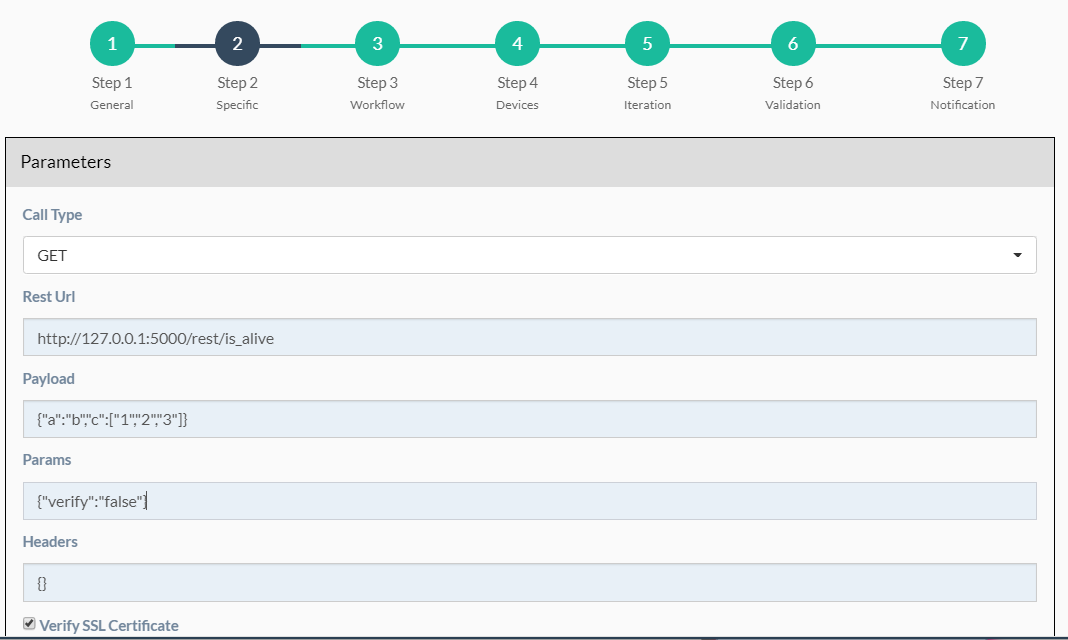
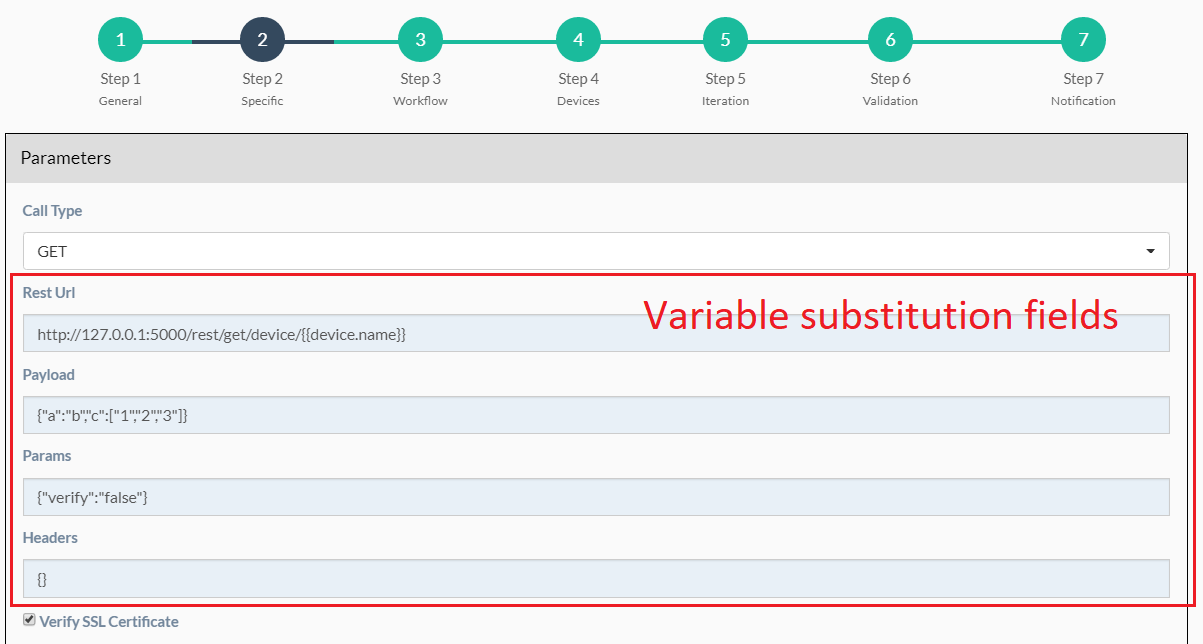
update service docs rest call global variable

Changed region(s): [[0.0, 0.375, 1.0, 1.0], [0.0, 0.0312, 0.9888, 0.3438]]

diff --git a/docs/automation/services.rst b/docs/automation/services.rst
@@ -141,43 +141,49 @@ Depending on the context, a number of global variables is made available by eNMS
 Global variables
 ****************
 
-- ``device`` (Available when the service is running on a device) Current device.
-- ``config`` (Always available) Configuration. This is a python dictionary available in
-  :guilabel:`Admin / Administration`, button ``Configuration``. By default, it is set to the content
-  of ``config.json``.
+- ``device``
+
+  - **Meaning**: this is the device on which the service is running.
+  - **Type** Database Object.
+  - **Available**: when the service is running on a device.
+
+- ``config``
+
+  - **Meaning**: eNMS configuration, editable from :guilabel:`Admin / Administration`, button
+    ``Configuration``. It is initially set to the content of ``config.json``.
+  - **Type** Dictionary.
+  - **Available**: Always.
+
 - ``workflow`` (Available when the service runs inside a workflow) Current workflow.
 - ``parent_device`` (Available when the iteration mechanism is used) Parent device, from which the actual
   targets of the service are computed.
+- ``result`` (Available after a service has run) Result of the service
 
-Variable Substitution
-*********************
+Substitution fields
+*******************
 
-There are some fields 
-For some services, it is useful for a string to include variables such as a timestamp or device parameters.
-For example, if you run a REST call script on several devices to send a request at a given URL, you might
-want the URL to depend on the name of the device.
-Any code between double curved brackets will be evaluated at runtime and replaced with the appropriate value.
-
-For example, you can POST a request on several devices at ``/url/{{device.name}}``, and ``{{device.name}}``
-will be replaced on each execution iteration by the name of each device.
-
-Let's consider the following REST call service:
+Substitution fields, marked in the interface with a light blue background, lets you include python code
+inside double curved brackets (``{{your python code}}``).
+For example, the URL of a REST call service is a substitution field. If the service is running on device
+targets, you can use the global variable ``device`` in the URL.
+When the service is running, eNMS will evaluate the python code in brackets and replace it with its value.
 
 .. image:: /_static/automation/services/variable_substitution.png
    :alt: Variable substitution
    :align: center
 
-When this service is executed, the following GET requests will be sent in parallel:
+Running the service on two devices ``D1`` and ``D2`` will result in sending the following GET requests:
 
 ```
-INFO:werkzeug:127.0.0.1 - - [13/Oct/2018 14:07:49] "GET /rest/object/device/router18 HTTP/1.1" 200 -
-INFO:werkzeug:127.0.0.1 - - [13/Oct/2018 14:07:49] "GET /rest/object/device/router14 HTTP/1.1" 200 -
-INFO:werkzeug:127.0.0.1 - - [13/Oct/2018 14:07:49] "GET /rest/object/device/router8 HTTP/1.1" 200 -
+"GET /rest/get/device/D1 HTTP/1.1" 302 219
+"GET /rest/get/device/D2 HTTP/1.1" 302 219
 ```
 
+Pure python fields
+******************
 
+Some services accept python code only. Their 
 
-- Inside double curved brackets in the service parameters (``{{python expression}}``). This is called "Variable substitution" (fields that support variable substitution are marked with a light blue background).
 - In the ``Device Query`` field of the "Devices" section of a service. This field lets the user define the targets of a service programmatically.
 - In the ``Skip Service If Python Query evaluates to True`` field of the "Workflow" section of a service. This field lets the user define whether or not a service should be skipped programmatically.
 - In the ``Query`` field of the Variable Extraction Service.
